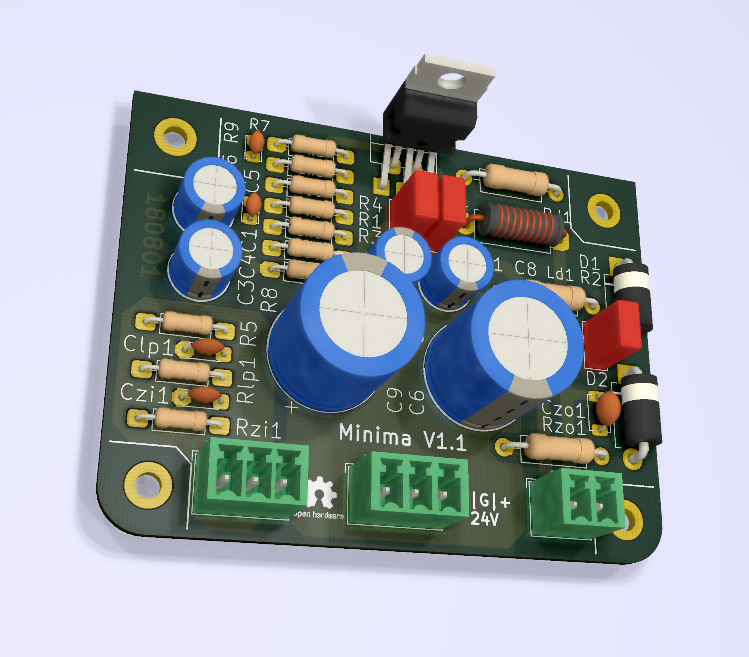
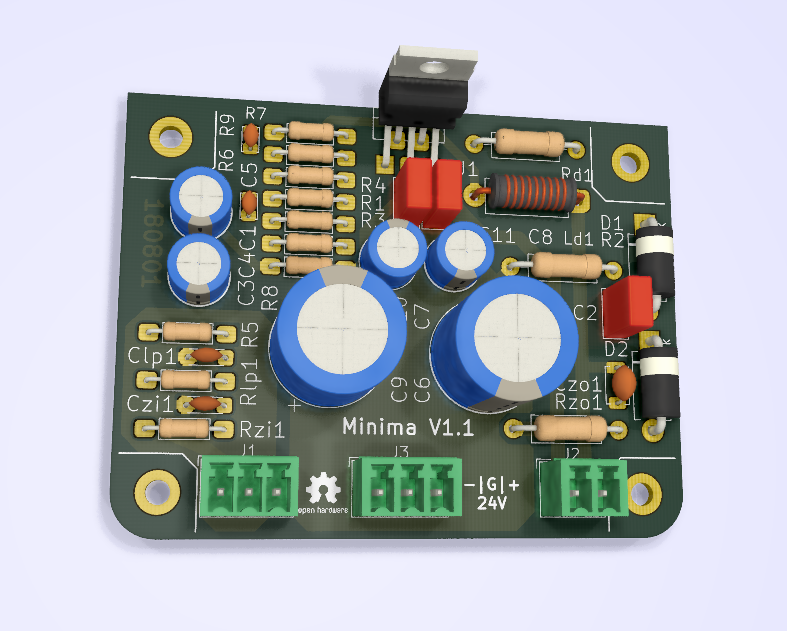
Updated images

diff --git a/README.rst b/README.rst
@@ -25,6 +25,8 @@ while the **Power supply** is located on separate PCB board.
 
 .. image:: images/pcb_render_corner.png
 
+.. image:: images/pcb_render_from_top.png
+
 
 Input circuit
 ============
